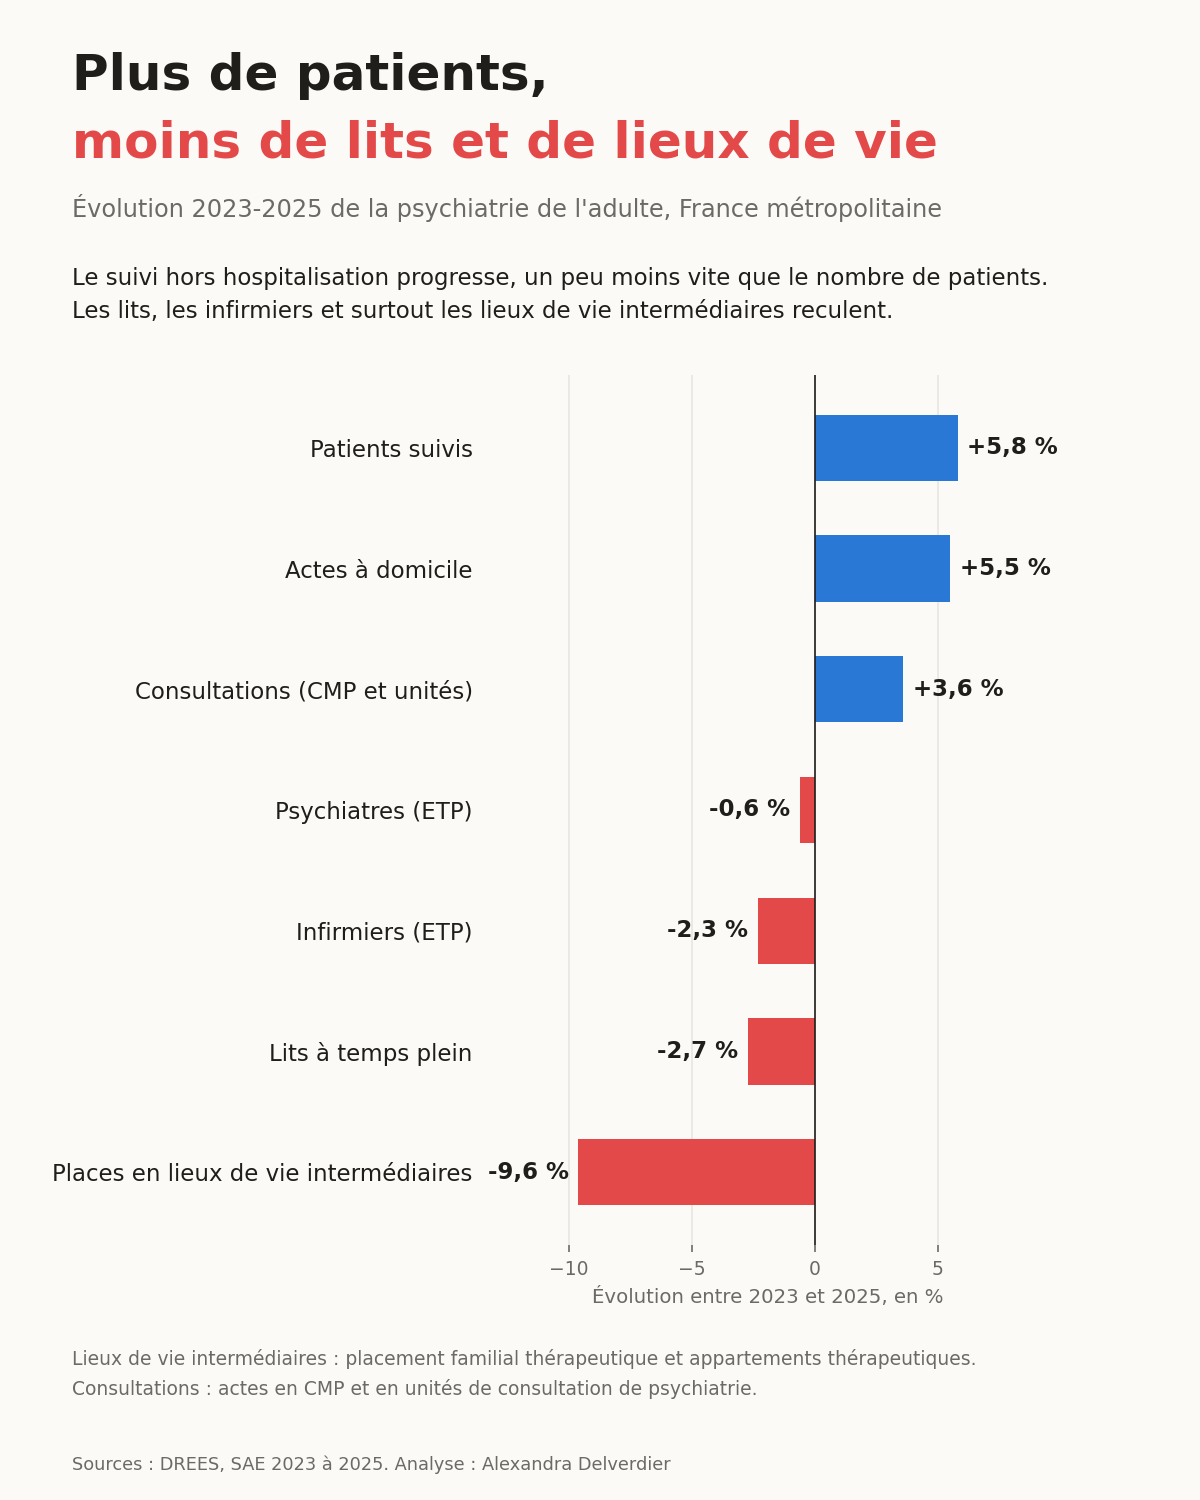
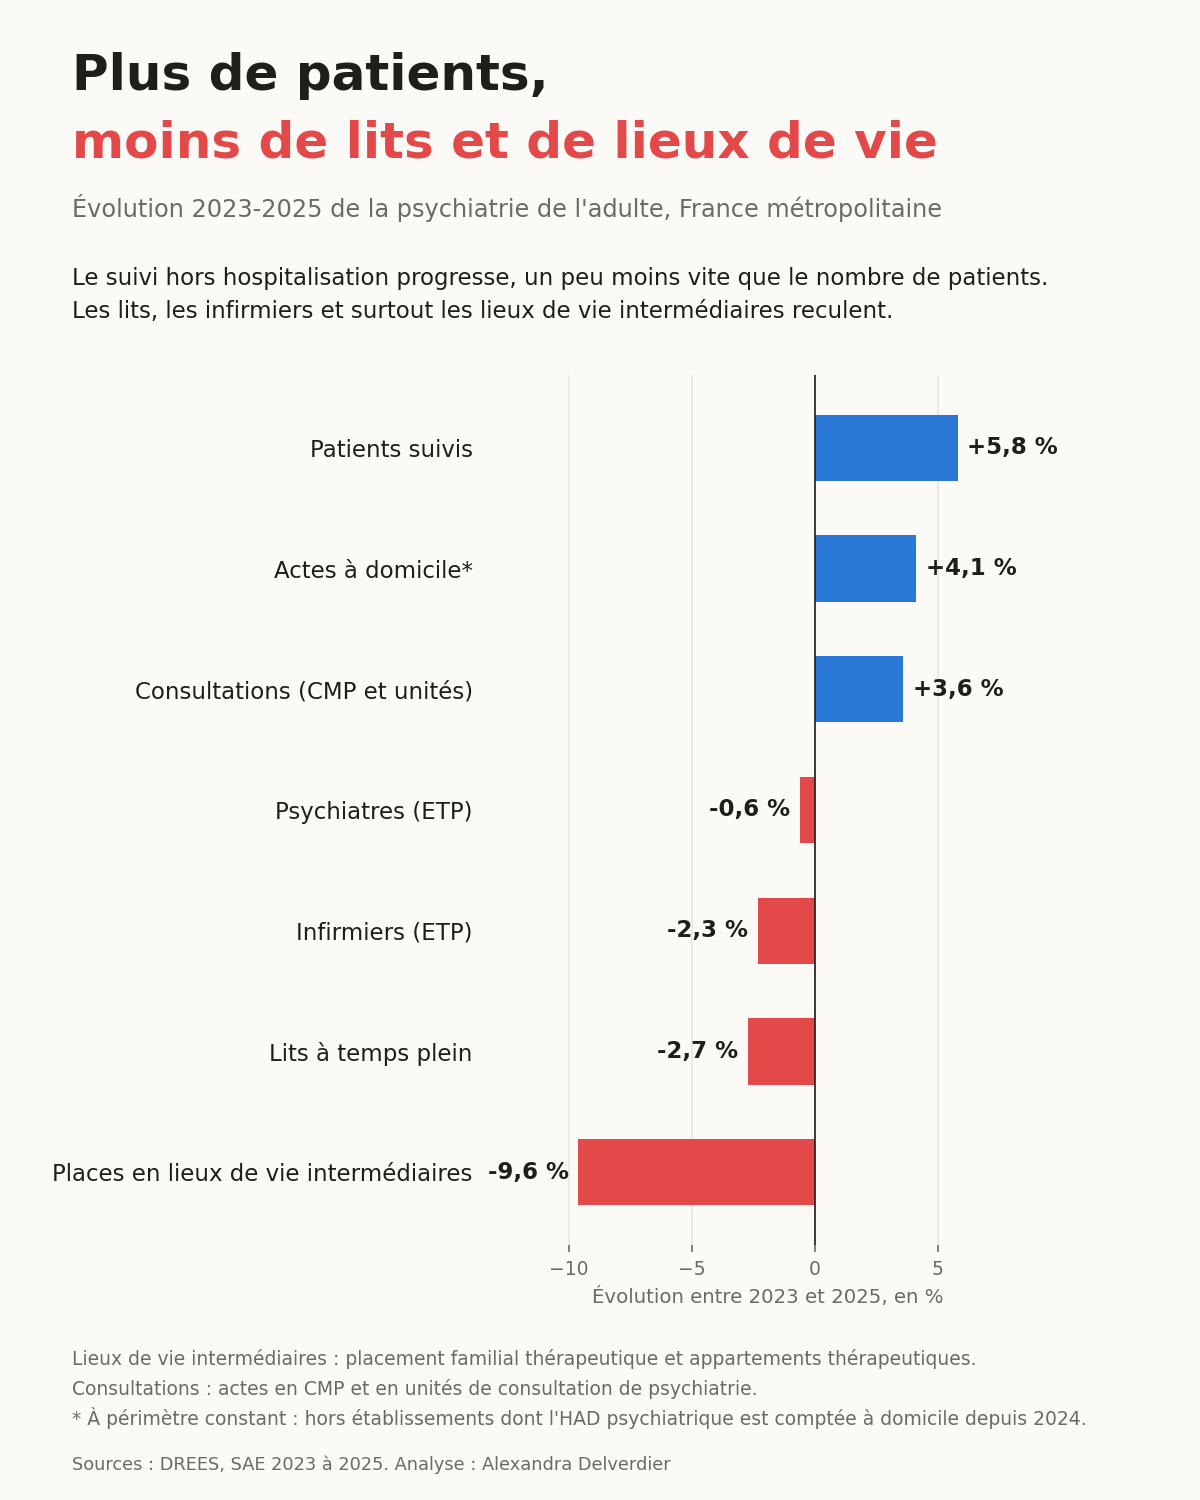
Correction de la rupture de série HAD sur le domicile (réforme 2024)

diff --git a/analysis/evolution.py b/analysis/evolution.py
@@ -17,7 +17,7 @@ INK, MUTED, BG, BLUE, RED, GRID = "#1f1e1b", "#6b6a65", "#fbfaf7", "#2a78d6", "#
 
 SERIES = [
     ("Patients suivis", "file_active_totale"),
-    ("Actes à domicile", "actes_domicile"),
+    ("Actes à domicile*", "actes_domicile_perimetre_constant"),
     ("Consultations (CMP et unités)", "actes_consultation"),
     ("Psychiatres (ETP)", "etp_psychiatres"),
     ("Infirmiers (ETP)", "etp_infirmiers"),
@@ -25,8 +25,8 @@ SERIES = [
     ("Places en lieux de vie intermédiaires", "places_lieux_de_vie"),
 ]
 VARIATIONS = [
-    ("actes_domicile_pour_1000", "taux_occupation"),
-    ("actes_domicile_pour_1000", "duree_moyenne_sejour"),
+    ("actes_domicile_constant_pour_1000", "taux_occupation"),
+    ("actes_domicile_constant_pour_1000", "duree_moyenne_sejour"),
     ("actes_consultation_pour_1000", "taux_occupation"),
     ("lits_pour_100k", "taux_occupation"),
     ("lits_pour_100k", "journees_soins_libres_pour_1000"),
@@ -44,6 +44,8 @@ def tendances(df):
 
 
 def variations(df):
+    # domicile à périmètre constant, pour ne pas confondre une hausse réelle avec le reclassement de l'HAD en 2024
+    df = df.assign(actes_domicile_constant_pour_1000=1000 * df.actes_domicile_perimetre_constant / df.population_adulte)
     rows = []
     for x, y in VARIATIONS:
         w = df.pivot_table(index="code_insee", columns="annee", values=[x, y])
@@ -78,6 +80,8 @@ def graphique(evol, sortie):
     fig.text(0.06, 0.09, "Lieux de vie intermédiaires : placement familial thérapeutique et appartements thérapeutiques.",
              fontsize=9, color=MUTED)
     fig.text(0.06, 0.07, "Consultations : actes en CMP et en unités de consultation de psychiatrie.", fontsize=9, color=MUTED)
+    fig.text(0.06, 0.05, "* À périmètre constant : hors établissements dont l'HAD psychiatrique est comptée à domicile depuis 2024.",
+             fontsize=9, color=MUTED)
     fig.text(0.06, 0.02, "Sources : DREES, SAE 2023 à 2025. Analyse : Alexandra Delverdier", fontsize=8.5, color=MUTED)
     fig.savefig(sortie, facecolor=BG); plt.close(fig)
     print("écrit :", sortie)

diff --git a/README.md b/README.md
@@ -27,12 +27,12 @@ Je m'attendais à ce que les départements qui suivent davantage leurs patients 
 
 | Lien testé (96 départements de métropole) | Entre départements, 2025 | Variations 2023-2025 au sein de chaque département |
 |---|---|---|
-| Domicile et occupation des lits | -0,16 (p = 0,11) | +0,16 (p = 0,13) |
+| Domicile et occupation des lits | -0,16 (p = 0,11) | +0,17 (p = 0,11) |
 | Domicile et part de soins sans consentement | -0,04 (p = 0,68) | |
-| Domicile et durée moyenne de séjour | | -0,03 (p = 0,75) |
+| Domicile et durée moyenne de séjour | | 0,00 (p = 0,97) |
 | Consultations et occupation des lits | -0,11 (p = 0,31) | +0,14 (p = 0,18) |
 
-Corrélations de Spearman. Aucun de ces liens n'est fiable au seuil de 5 %.
+Corrélations de Spearman. Aucun de ces liens n'est fiable au seuil de 5 %. Les variations du domicile sont calculées à périmètre constant (voir les choix de modélisation).
 
 Ça ne contredit pas l'expérience de terrain : la maille départementale est trop grossière. Pour mesurer l'effet du suivi à la sortie, il faudrait suivre les parcours des patients, et ces données ne sont pas ouvertes.
 
@@ -57,7 +57,7 @@ Les deux liens forts (soins libres et part de contrainte) tiennent quand on reti
 
 ![Évolution 2023-2025 de la psychiatrie de l'adulte](visuels/evolution_2023_2025.png)
 
-- Le nombre de patients suivis augmente de 5,8 %, le suivi à domicile de 5,5 % et les consultations de 3,6 %
+- Le nombre de patients suivis augmente de 5,8 %, le suivi à domicile de 4,1 % à périmètre constant et les consultations de 3,6 %
 - Les lits à temps plein reculent de 2,7 % et les infirmiers de 2,3 % : chaque soignant suit 8 % de patients en plus
 - Les places en lieux de vie intermédiaires (placement familial et appartements thérapeutiques) reculent de 9,6 %, alors que ce sont elles qui permettent de sortir de l'hôpital sans revenir directement au domicile
 - Les écarts entre départements pour le suivi à domicile restent stables : le département au 90e centile fait environ 8 fois plus d'actes que celui au 10e centile, chaque année
@@ -98,6 +98,7 @@ archives DREES (SAE 2023, 2024, 2025) + fichier Insee
 - **Localisation par `DEP_DIFF`** : quand une entité juridique répond pour plusieurs sites, l'activité est rattachée au département où elle a réellement lieu.
 - **CMP et unités de consultation regroupés** : certains hôpitaux, surtout les CHU, déclarent une grande part de leur activité en unités de consultation plutôt qu'en CMP (46 % dans l'Hérault). Les séparer créerait un artefact de déclaration.
 - **Contrôle de cohérence entre bordereaux** : les journées ventilées par mode légal (PSY2) doivent correspondre aux journées d'hospitalisation déclarées dans PSY. Quand l'écart dépasse un facteur 2, les modes légaux de l'établissement sont écartés. Sans ce contrôle, le CHU de Grenoble, qui déclare 586 847 journées dans PSY2 en 2024 contre environ 9 500 dans PSY, fausserait à lui seul la tendance nationale. Entre 20 et 29 établissements sont écartés chaque année, soit 1,5 à 1,6 % des journées d'hospitalisation adulte : certains n'ont pas rempli PSY2, d'autres y déclarent des chiffres incohérents.
+- **Rupture de série sur le domicile en 2024** : avec la réforme des autorisations d'activité de soins, l'hospitalisation à domicile (HAD) psychiatrique n'est plus comptée comme du temps complet mais comme des actes à domicile. Les 15 établissements qui avaient une HAD en 2023 voient leurs actes à domicile augmenter de 25 % entre 2023 et 2025, contre 4 % pour les autres. Le modèle repère ces établissements (`concerne_reforme_had`) et le mart fournit une série à périmètre constant (`actes_domicile_perimetre_constant`), utilisée pour toutes les comparaisons entre années. Sans cette correction, la hausse du domicile serait de 5,5 % au lieu de 4,1 %.
 - **Années empilées dès les données brutes** : les noms de colonnes (minuscules en 2023 et 2024, majuscules en 2025) et l'encodage (Latin-1 puis UTF-8) changent selon les millésimes. Le script de préparation les harmonise ; toutes les transformations métier restent dans dbt.
 - **Données brutes chargées en texte**, typées dans le staging : les codes FINESS commencent par un zéro qui disparaîtrait avec une détection automatique des types.
 - **Population par année** : chaque année de la SAE prend la dernière estimation Insee disponible ; ajouter une nouvelle estimation ne demande aucun changement de code.
@@ -113,6 +114,7 @@ archives DREES (SAE 2023, 2024, 2025) + fichier Insee
 - Les modes légaux de soins (bordereau PSY2) ne sont pas ventilés entre adultes et enfants.
 - La population de référence est celle de 2023 pour les trois années, dernière estimation par classe d'âge disponible dans le fichier utilisé. Les évolutions de population sont faibles sur la période, mais les taux pour 1 000 adultes de 2024 et 2025 sont légèrement surestimés.
 - En 2023, la SAE ne renseigne pas l'isolement ni les équipes mobiles pour personnes âgées.
+- Les actes à domicile de 2025 (carte et indicateurs de l'année) incluent l'ancienne HAD psychiatrique de 14 établissements. Les comparaisons entre années utilisent la série à périmètre constant.
 - Quelques valeurs sont à interpréter avec prudence, par exemple le Territoire de Belfort, qui déclare 0,1 % de soins sans consentement en 2025.
 
 ## Sources
